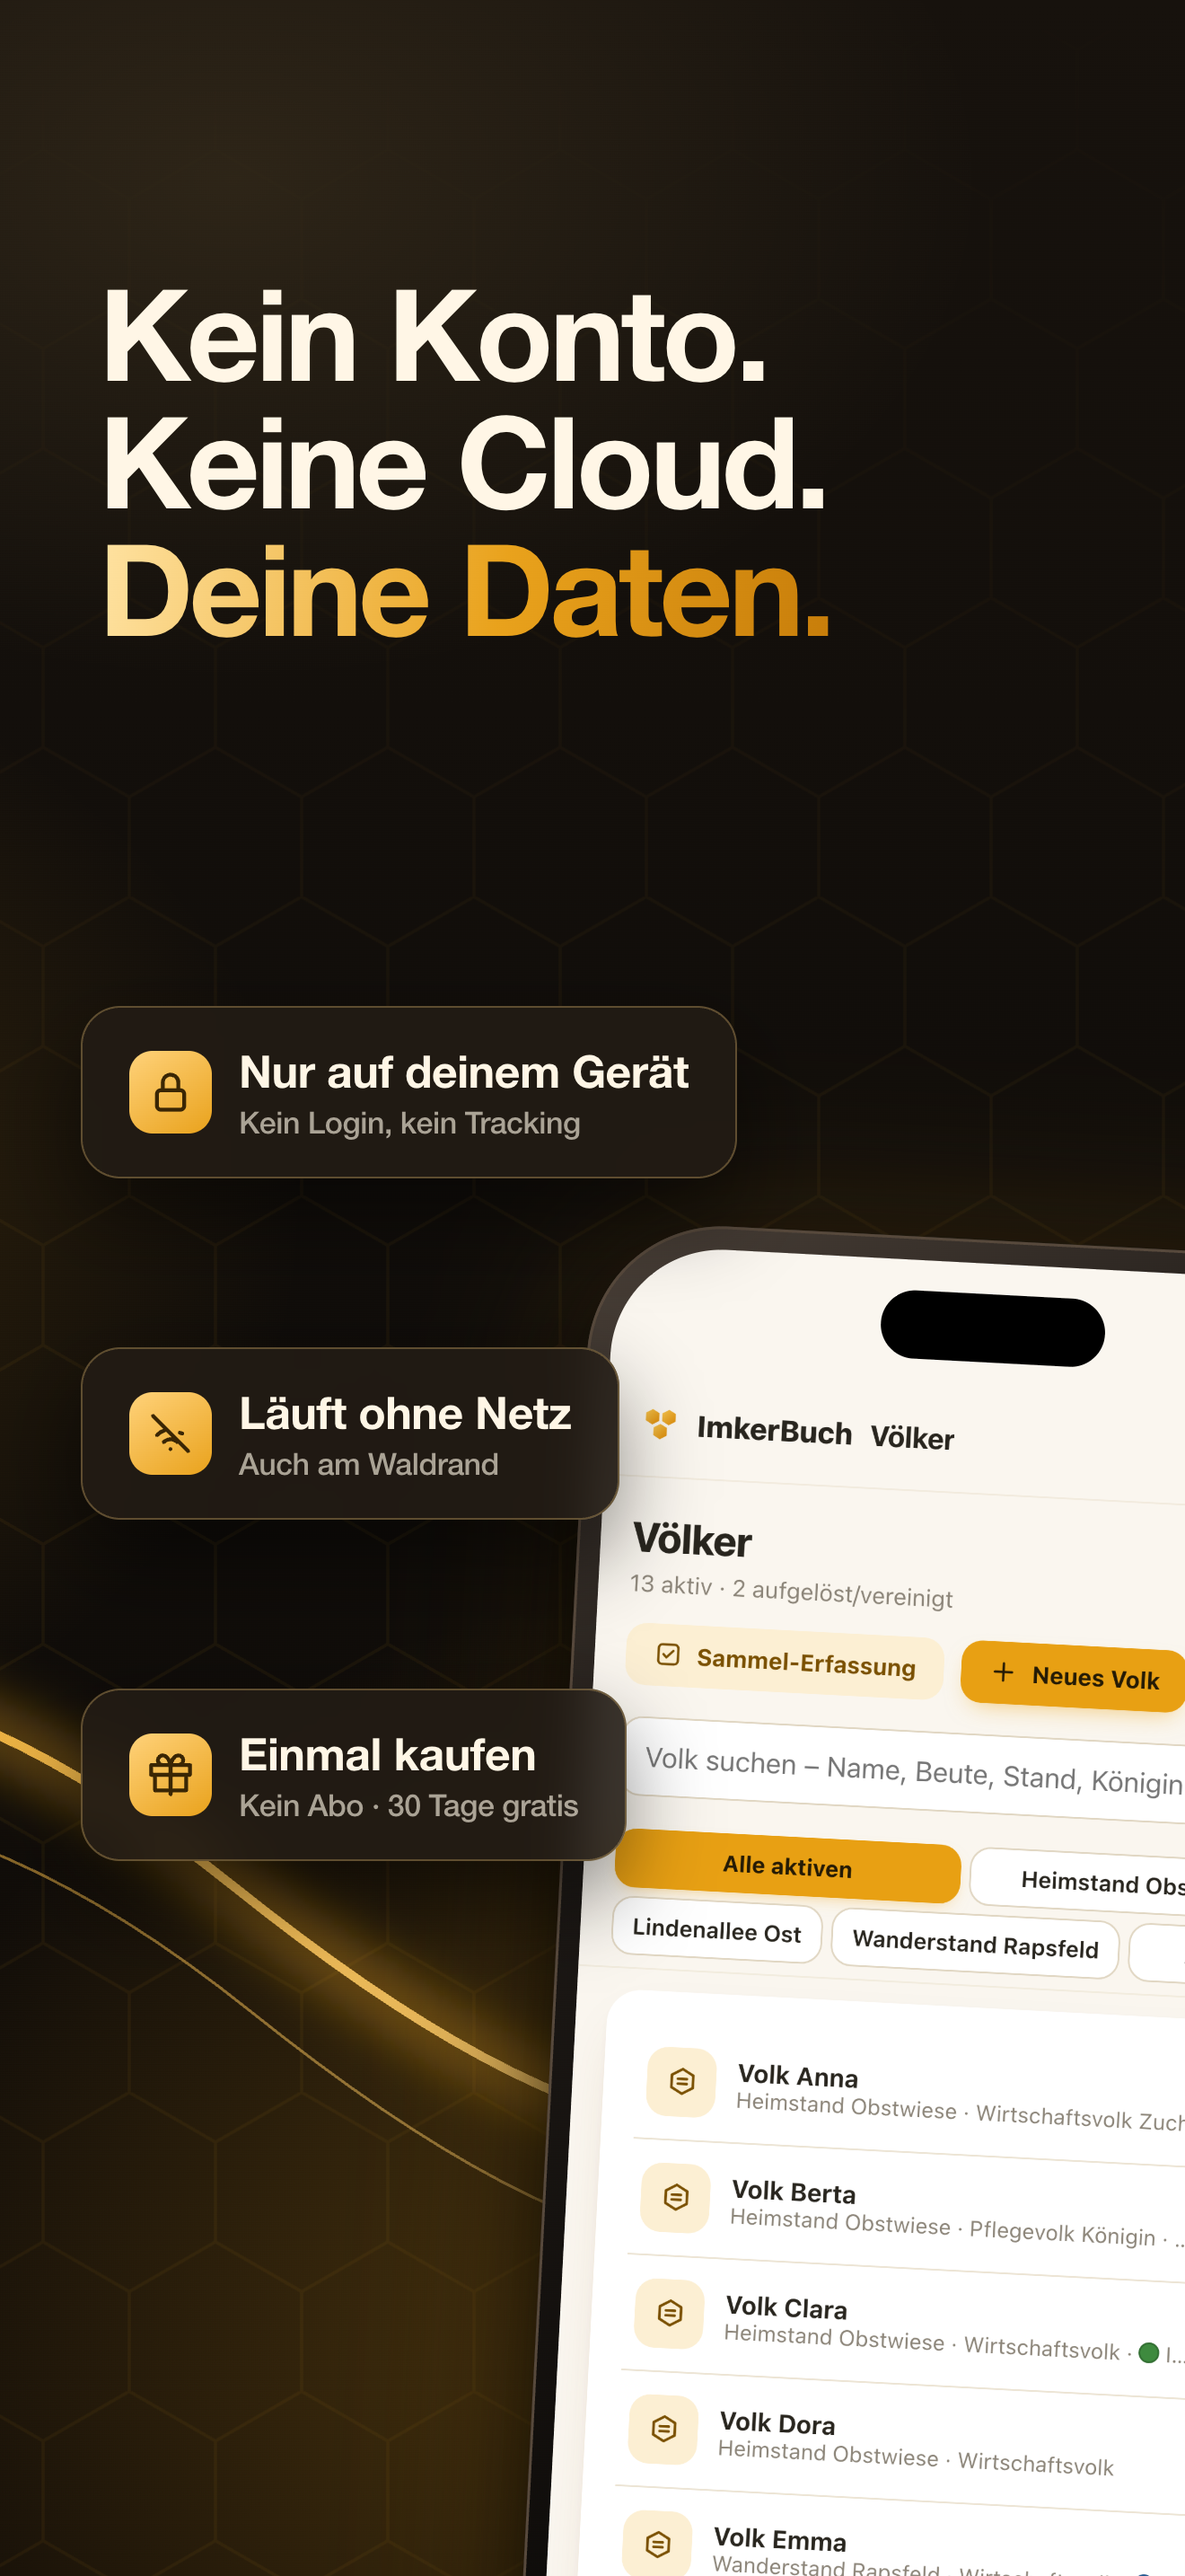
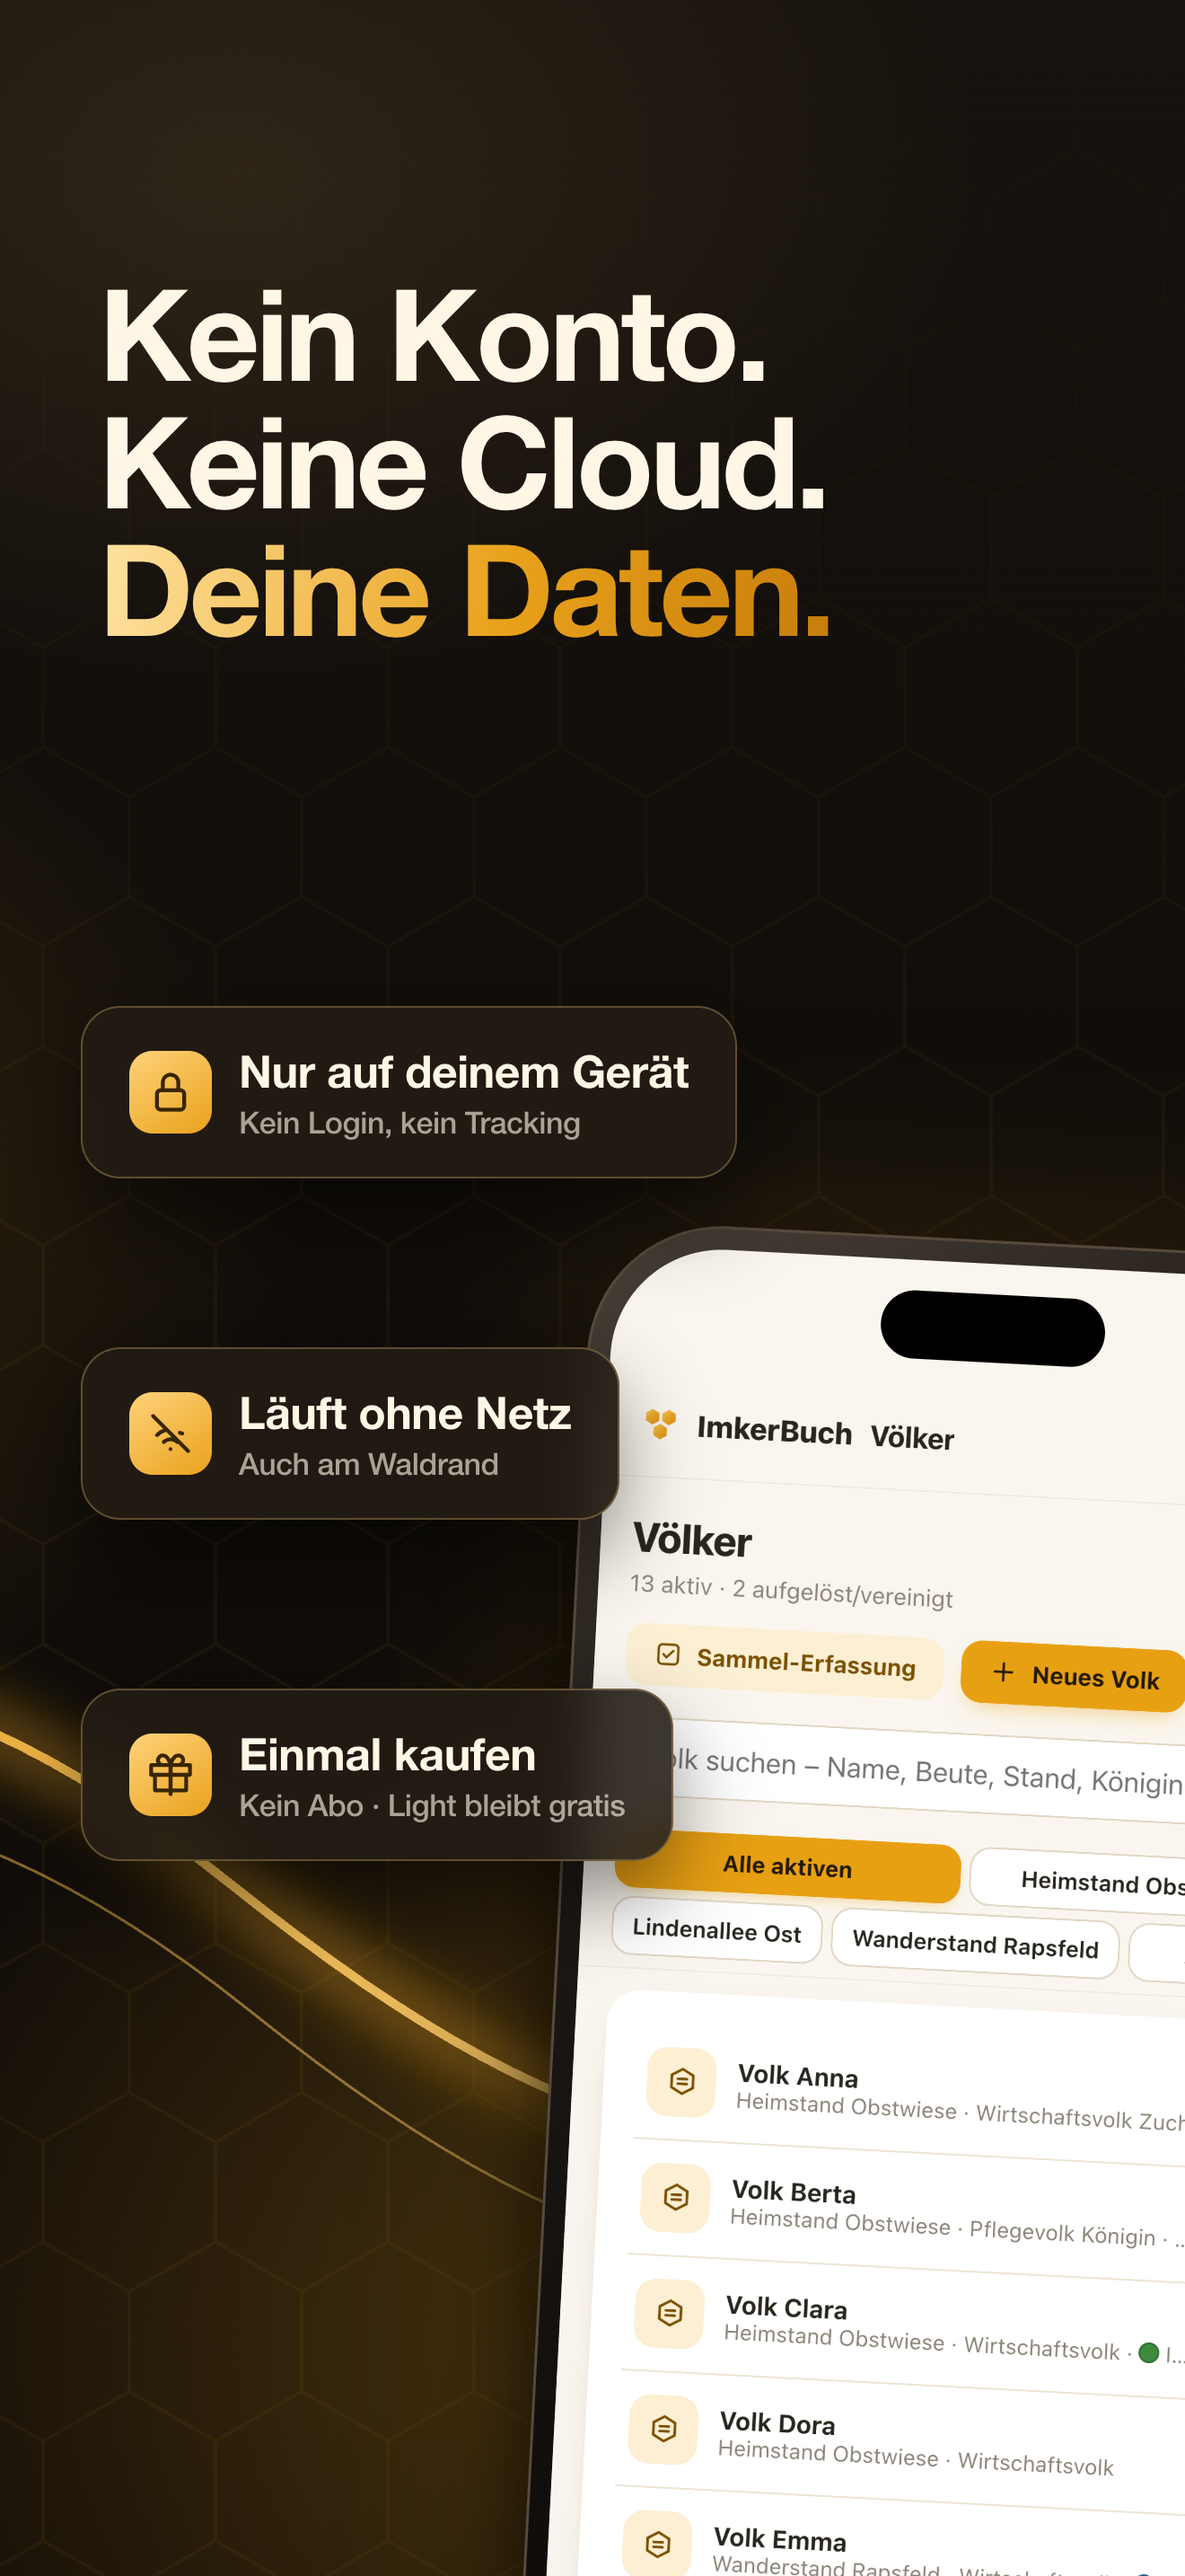
v2.70: Light-Version in Imme, Support, AGB, Webseite, Play-Text und Store-Bild 3 nachgezogen

Changed region(s): [[0.3417, 0.6517, 0.5902, 0.7448]]

diff --git a/index.html b/index.html
@@ -1412,8 +1412,11 @@ const CDN = {
    und oben einen neuen CHANGELOG-Eintrag ergänzen. Nach dem Update
    zeigt die App dem Nutzer einmalig ein „Was ist neu?“-Fenster.
    ===================================================================== */
-const APP_VERSION = '2.69';
+const APP_VERSION = '2.70';
 const CHANGELOG = [
+  { version: '2.70', datum: '2026-10-20', punkte: [
+    'Imme erklärt jetzt auch die kostenlose Light-Version (Frag sie z. B. „Was ist kostenlos?“).',
+  ] },
   { version: '2.69', datum: '2026-10-20', punkte: [
     'Immes Hinweise sehen ruhiger aus: ohne gelben Rahmen und auf dem Handy über die ganze Breite.',
   ] },
@@ -23032,8 +23035,8 @@ const IMME_NAME = { id: 'imme', persona: true, titel: 'Warum heiße ich Imme?',
   schritte: [] };
 APP_WISSEN.push(IMME_NAME);
 APP_WISSEN.push({ id: 'kauf', titel: 'Vollversion kaufen, Käufe wiederherstellen, Code einlösen', route: 'einstellungen', zeige: 'Vollversion',
-  stichw: ['kaufen', 'kauf', 'vollversion', 'testphase', 'test', 'abgelaufen', 'freischalten', 'wiederherstellen', 'kauf wiederherstellen', 'neues handy kauf', 'code', 'gutschein', 'coupon', 'angebotscode', 'preis', 'kosten', 'was kostet', 'bezahlen'],
-  antwort: 'ImkerBuch kannst du 30 Tage kostenlos testen, danach gibt es die Vollversion als Einmalkauf – kein Abo. Unter Einstellungen → „ImkerBuch Vollversion“ kaufst du, stellst Käufe auf einem neuen Gerät wieder her oder löst einen Code ein. Deine Daten bleiben auch nach der Testphase lesbar.',
+  stichw: ['kaufen', 'kauf', 'vollversion', 'testphase', 'test', 'abgelaufen', 'light', 'kostenlos', 'gratis', 'gesperrt', 'voll', 'freischalten', 'wiederherstellen', 'kauf wiederherstellen', 'neues handy kauf', 'code', 'gutschein', 'coupon', 'angebotscode', 'preis', 'kosten', 'was kostet', 'bezahlen'],
+  antwort: 'ImkerBuch kannst du 30 Tage kostenlos testen, danach gibt es die Vollversion als Einmalkauf – kein Abo. Danach läuft ImkerBuch kostenlos als Light weiter (bis 2 Völker, Durchsicht, Stockkarte, Varroa, Königinnen) – alles andere gibt es mit der Vollversion. Unter Einstellungen → „ImkerBuch Vollversion“ kaufst du, stellst Käufe auf einem neuen Gerät wieder her oder löst einen Code ein. Deine Daten bleiben immer sichtbar und sicherbar.',
   schritte: ['Menü ▸ Einstellungen', 'Bereich „ImkerBuch Vollversion“', 'Kaufen, Wiederherstellen oder Code einlösen'] });
 APP_WISSEN.push({ id: 'einfuehrung', einfuehrung: true, titel: 'Einführung für Neulinge (Imme zeigt dir das Wichtigste)', route: 'dashboard', zeige: '',
   stichw: ['einfuehrung', 'rundgang', 'tour', 'neu hier', 'erste schritte', 'anfangen', 'wie fange ich an', 'wie geht das', 'zeig mir', 'erklaer mir die app', 'tutorial', 'anleitung', 'einstieg', 'loslegen'],

diff --git a/store-bilder/studio.html b/store-bilder/studio.html
@@ -54,7 +54,7 @@
     </div></div>
     <div class="glas" style="left:90px; top:1120px;"><span class="ic"><svg viewBox="0 0 24 24" fill="none" stroke-width="2" stroke-linecap="round" stroke-linejoin="round"><rect x="5" y="11" width="14" height="10" rx="2"/><path d="M8 11V7a4 4 0 0 1 8 0v4"/></svg></span><span>Nur auf deinem Gerät<small>Kein Login, kein Tracking</small></span></div>
     <div class="glas" style="left:90px; top:1500px;"><span class="ic"><svg viewBox="0 0 24 24" fill="none" stroke-width="2" stroke-linecap="round" stroke-linejoin="round"><path d="M3 3l18 18M16.7 11.6A6 6 0 0 1 18 12M8.5 16.4a5 5 0 0 1 7 0M5 12.8a10 10 0 0 1 4.2-2.5M12 20h.01"/></svg></span><span>Läuft ohne Netz<small>Auch am Waldrand</small></span></div>
-    <div class="glas" style="left:90px; top:1880px;"><span class="ic"><svg viewBox="0 0 24 24" fill="none" stroke-width="2" stroke-linecap="round" stroke-linejoin="round"><path d="M20 12v8H4v-8M2 7h20v5H2zM12 22V7M12 7H8a2.5 2.5 0 0 1 0-5C11 2 12 7 12 7zM12 7h4a2.5 2.5 0 0 0 0-5C13 2 12 7 12 7z"/></svg></span><span>Einmal kaufen<small>Kein Abo · 30 Tage gratis</small></span></div>
+    <div class="glas" style="left:90px; top:1880px;"><span class="ic"><svg viewBox="0 0 24 24" fill="none" stroke-width="2" stroke-linecap="round" stroke-linejoin="round"><path d="M20 12v8H4v-8M2 7h20v5H2zM12 22V7M12 7H8a2.5 2.5 0 0 1 0-5C11 2 12 7 12 7zM12 7h4a2.5 2.5 0 0 0 0-5C13 2 12 7 12 7z"/></svg></span><span>Einmal kaufen<small>Kein Abo · Light bleibt gratis</small></span></div>
   </section>
 </div>
 <script src="studio.js"></script>

diff --git a/agb.html b/agb.html
@@ -44,7 +44,7 @@
   <p>Der Erwerb erfolgt über den jeweiligen App-Store (Apple App Store oder Google Play). Der Store wickelt Bestellung und Zahlung ab und stellt hierfür eigene Bedingungen; er handelt als Vermittler bzw. Zahlungsdienstleister. Der Nutzungsvertrag über die App kommt zwischen dem Nutzer und dem Anbieter zustande.</p>
 
   <h2>§ 4 Preise</h2>
-  <p>Es gelten die im Store angegebenen Preise (Endpreise). Gemäß § 19 UStG (Kleinunternehmerregelung) wird keine Umsatzsteuer ausgewiesen. Ein etwaiger kostenloser Testzeitraum und der anschließende einmalige Kaufpreis ergeben sich aus dem Store-Eintrag.</p>
+  <p>Es gelten die im Store angegebenen Preise (Endpreise). Gemäß § 19 UStG (Kleinunternehmerregelung) wird keine Umsatzsteuer ausgewiesen. Ein etwaiger kostenloser Testzeitraum, der Umfang der dauerhaft kostenlosen Light-Version und der einmalige Kaufpreis der Vollversion ergeben sich aus dem Store-Eintrag und der App.</p>
 
   <h2>§ 5 Nutzungsrecht</h2>
   <p>Mit vollständiger Zahlung erhält der Nutzer ein einfaches, nicht ausschließliches, zeitlich unbefristetes, nicht übertragbares Recht, die App für eigene Zwecke (privat oder im eigenen Imkerei-/Geschäftsbetrieb) zu nutzen. Eine Weitergabe, Vervielfältigung zum Vertrieb, Vermietung oder Bearbeitung der App ist nicht gestattet.</p>

diff --git a/support.html b/support.html
@@ -64,7 +64,7 @@
   <p><b>Wichtig:</b> Wird die App gelöscht, ohne dass vorher gesichert wurde, sind die Daten weg – auch wir können sie nicht wiederherstellen.</p>
 
   <h3>Testphase und Vollversion</h3>
-  <p>Du kannst ImkerBuch 30 Tage kostenlos mit allen Funktionen testen (auf Android ab dem Start auf dem Gerät). Danach gibt es die Vollversion als <b>Einmalkauf</b> – kein Abo, keine automatische Abbuchung. Ist die Testphase vorbei, bleiben deine Daten erhalten, lesbar und sicherbar; Neues eintragen geht dann mit der Vollversion.</p>
+  <p>Du kannst ImkerBuch 30 Tage kostenlos mit allen Funktionen testen (auf Android ab dem Start auf dem Gerät). Danach gibt es die Vollversion als <b>Einmalkauf</b> – kein Abo, keine automatische Abbuchung. Ist die Testphase vorbei, läuft ImkerBuch <b>kostenlos als Light</b> weiter: bis zu 2 Völker mit Durchsicht, Stockkarte, Varroa und Königinnen. Alle anderen Bereiche (z. B. Kassenbuch, Behandlungen, Fütterung, Ernte, Aufgaben, Fotos) gibt es mit der Vollversion – was du eingetragen hast, bleibt sichtbar und sicherbar.</p>
 
   <h3>Käufe wiederherstellen</h3>
   <p>Einstellungen → <b>ImkerBuch Vollversion</b> → „Käufe wiederherstellen“. Das funktioniert auf jedem Gerät mit derselben Apple-ID bzw. demselben Google-Konto.</p>

diff --git a/service-worker.js b/service-worker.js
@@ -2,7 +2,7 @@
    Strategie: HTML-Seite NETWORK-FIRST (online immer frisch → Updates erscheinen
    sofort, offline aus Cache), übrige App-Dateien stale-while-revalidate,
    CDN-Bibliotheken cache-first (versionierte URLs), APIs network-only. */
-const CACHE = 'imkerbuch-v284';
+const CACHE = 'imkerbuch-v285';
 const SHELL = ['./', './index.html', './manifest.json', './icon-192.png', './icon-512.png', './icon-180.png', './impressum.html', './datenschutz.html', './agb.html', './support.html',
   // selbst gehostete Bibliotheken (PDF/Excel/QR) – einmal geladen = komplett offline nutzbar
   './libs/jspdf.umd.min.js', './libs/jspdf.plugin.autotable.min.js', './libs/pdf.min.js', './libs/pdf.worker.min.js', './libs/qrcode.min.js', './libs/xlsx.full.min.js',

diff --git a/landing.html b/landing.html
@@ -207,7 +207,8 @@
       <div class="big">14,99 €<small> einmalig</small></div>
       <ul>
         <li>1 Monat kostenlos testen – voller Umfang</li>
-        <li>Danach einmalig freischalten, kein Abo</li>
+        <li>Danach kostenlos als Light weiter (bis 2 Völker)</li>
+        <li>Oder einmalig freischalten, kein Abo</li>
         <li>Alle Bereiche & alle PDFs inklusive</li>
         <li>Deine Daten immer exportierbar</li>
       </ul>

diff --git a/docs/PLAY_STORE.md b/docs/PLAY_STORE.md
@@ -7,6 +7,7 @@ Stand 2026-10-18. Gegenstück zu `APP_STORE_EINREICHUNG.md` / `APP_STORE_TEXTE.m
 - Paket `de.imkerbuch.app`, `targetSdk 36` (Pflicht seit 31.08.2026), `minSdk 24`, `versionCode 1` / `versionName "1.0"` (je Upload `versionCode` +1).
 - Berechtigungen im Manifest: Internet, Kamera, Mikrofon, Standort (alle erst bei Benutzung gefragt), Mitteilungen (Erweiterung). **Kein „exakter Wecker“** (`SCHEDULE_EXACT_ALARM` entfernt – sonst Begründungspflicht bei Google). Kamera/Mikrofon/GPS als „nicht erforderlich“, damit Tablets ohne Kamera die App sehen.
 - Kauf: Google Play Billing über dieselbe Erweiterung wie iOS. Produkt `de.imkerbuch.app.vollversion` (Einmalkauf). Käufe werden automatisch bestätigt (sonst erstattet Google nach 3 Tagen).
+- **Light (seit v2.67):** nach den 30 Tagen kostenlos weiter mit 2 Völkern + Grundfunktionen (siehe `APP_STORE_EINREICHUNG.md` §27); in der Play-Beschreibung den Testphase-Satz entsprechend: „30 Tage alles testen, danach kostenlos als Light weiter – oder einmalig die Vollversion“.
 - **Testphase:** Google kennt keinen 0-€-Einmalkauf → 30 Tage ab Start auf dem Gerät (`testStartGeraet`, gerätebezogen). Neuinstallation startet neu – bewusst in Kauf genommen.
 - **Gutscheine:** Play-Promo-Codes für Einmalkäufe = Einzel-Codes (je Code einmal). Sammel-Codes nur für Abos. Einlösen im Play Store (`play.google.com/redeem`), danach in der App „Käufe wiederherstellen“.
 - Datei-Ausgaben, Sicherung, Rechtstexte, Erinnerungen: wie iOS (Teilen-Menü, Fenster in der App, lokale Mitteilungen).

diff --git a/PROJEKT.md b/PROJEKT.md
@@ -76,6 +76,7 @@ python3 -m http.server 8931 -d ~/ImkerApp   # dann http://localhost:8931
 
 ## Historie
 
+- **2026-10-20 (v2.70)**: Light überall nachgezogen: Imme-Antwort „kauf“ (+ Stichwörter light/kostenlos/gratis/gesperrt), support.html, agb.html §4, landing.html Preisliste, PLAY_STORE.md, Store-Bild 3 („Light bleibt gratis“).
 - **2026-10-20 (v2.69)**: Julian: Imme-Sprechblase ohne gelben Rahmen, auf dem Handy volle Breite (≤ 700 px: links 12 px, Breite 100vw − 24). Hinweis: blasser Hintergrund auf Vorschau-Bildern kommt vom pausierten Einblenden im Vorschau-Browser, nicht von der App (in WebKit-Aufnahme scharf).
 - **2026-10-20 (v2.68)**: Julian: beim ersten Start kurz erklären, wo was ist, und das Anpassen hervorheben → Einführungs-Kapitel 1 „Kurz umschauen“ (5 Schritte: Startseite, #dash-cfg, Schnellzugriffe, Mehr/ziehen, Imme; ersetzt „Alles finden“). Achtung: Imme-Tour findet `position:fixed`-Elemente nicht (offsetParent null) → auf Knöpfe darin zeigen. Store-Bild 7 „Deine App. Dein Betrieb.“ (studio-3.html, Aufnahme dash-anpassen).
 - **2026-10-20 (v2.67)**: ImkerBuch Light (Details Checkliste §27): nach 30 Tagen kostenlos weiter mit 2 Völkern + Grundfunktionen, Rest Vollversion (lesbar, Speichern → Kauf-Fenster), „Voll“-Kennzeichen, Startseiten-Hinweis, Start-Erinnerung alle 3 Tage. Tests angepasst + neuer Light-Test.
